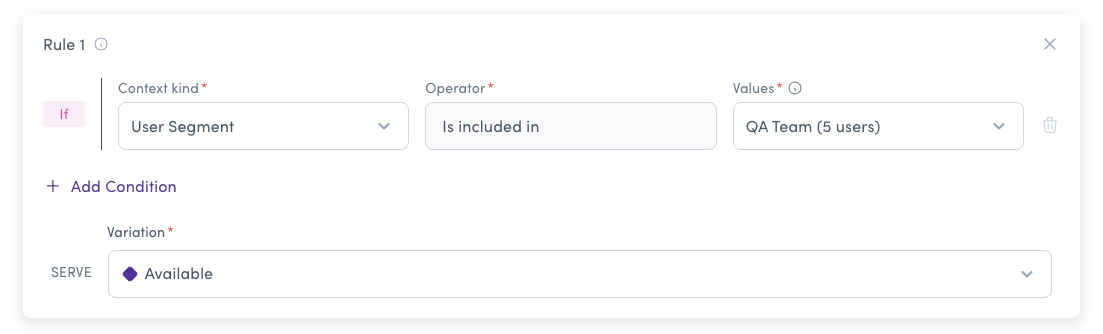
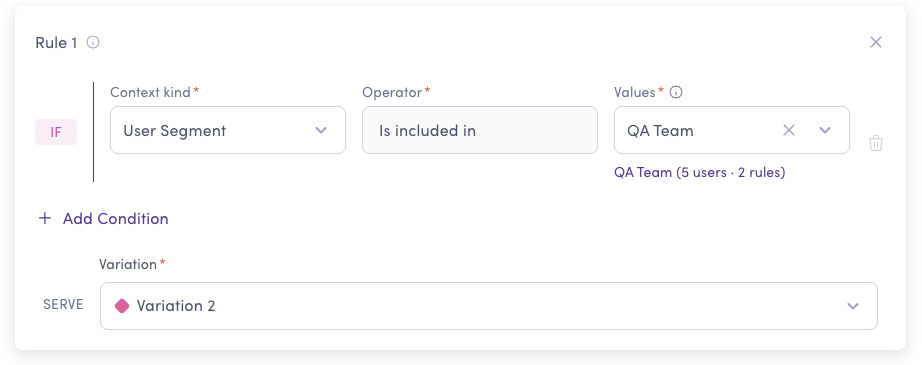
docs: document rule-based user segments (#307)

diff --git a/docs/sdk/server-side/node-js/index.md b/docs/sdk/server-side/node-js/index.md
@@ -141,6 +141,12 @@ Keep in mind that it might contain sensitive information, so be careful when sha
 
 :::
 
+:::info Rule-based segments
+
+[Rule-based user segments](/feature-flags/segments#segment-rules) require the Node.js server SDK `v0.4.7` or later and Bucketeer `v2.3.0` or later. Older SDK versions only evaluate the segment's uploaded user list and ignore the segment rules when evaluating locally.
+
+:::
+
 When initializing the SDK you must enable the local evaluation setting.
 
 <Tabs>

diff --git a/docs/sdk/server-side/go/index.md b/docs/sdk/server-side/go/index.md
@@ -124,6 +124,12 @@ Keep in mind that it might contain sensitive information, so be careful when sha
 
 :::
 
+:::info Rule-based segments
+
+[Rule-based user segments](/feature-flags/segments#segment-rules) require the Go server SDK `v1.8.0` or later and Bucketeer `v2.3.0` or later. Older SDK versions only evaluate the segment's uploaded user list and ignore the segment rules when evaluating locally.
+
+:::
+
 When initializing the SDK you must enable the local evaluation setting.
 
 <Tabs>
